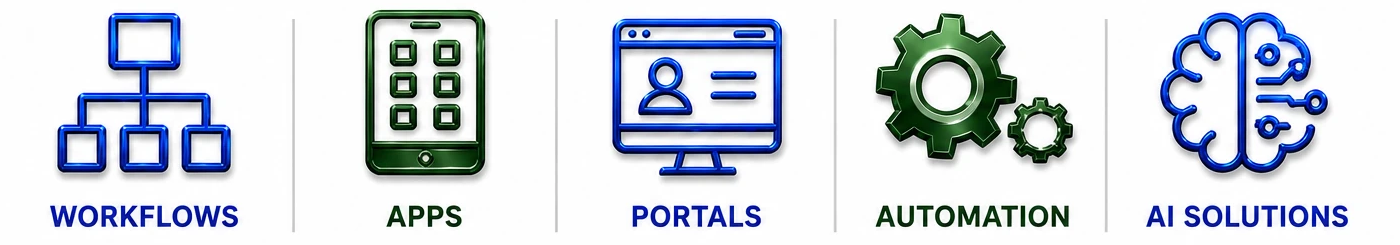
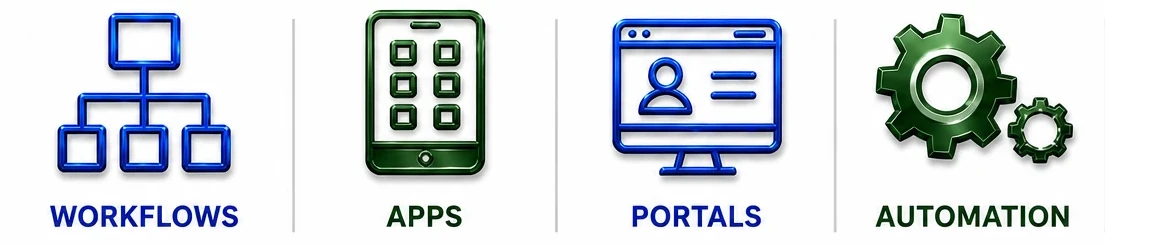
Drop AI Solutions from the services strip
The strip promised five things and the site only ever demonstrates four of
them. AI Solutions is removed from the artwork, the trailing divider goes
with it, and the right-hand whitespace is padded to match the left so the
four remaining items stay centred.

Alt text and the declared image dimensions updated to match.

diff --git a/index.html b/index.html
@@ -274,7 +274,7 @@
   </div>
 
   <div class="services">
-    <img class="svcpic" src="svc-row.webp" alt="Workflows · Apps · Portals · Automation · AI Solutions" width="1400" height="245">
+    <img class="svcpic" src="svc-row.webp" alt="Workflows · Apps · Portals · Automation" width="1155" height="245">
     <img class="mottopic" src="motto-strip.webp" alt="We turn outdated processes into modern solutions." width="1160" height="112">
   </div>
 
